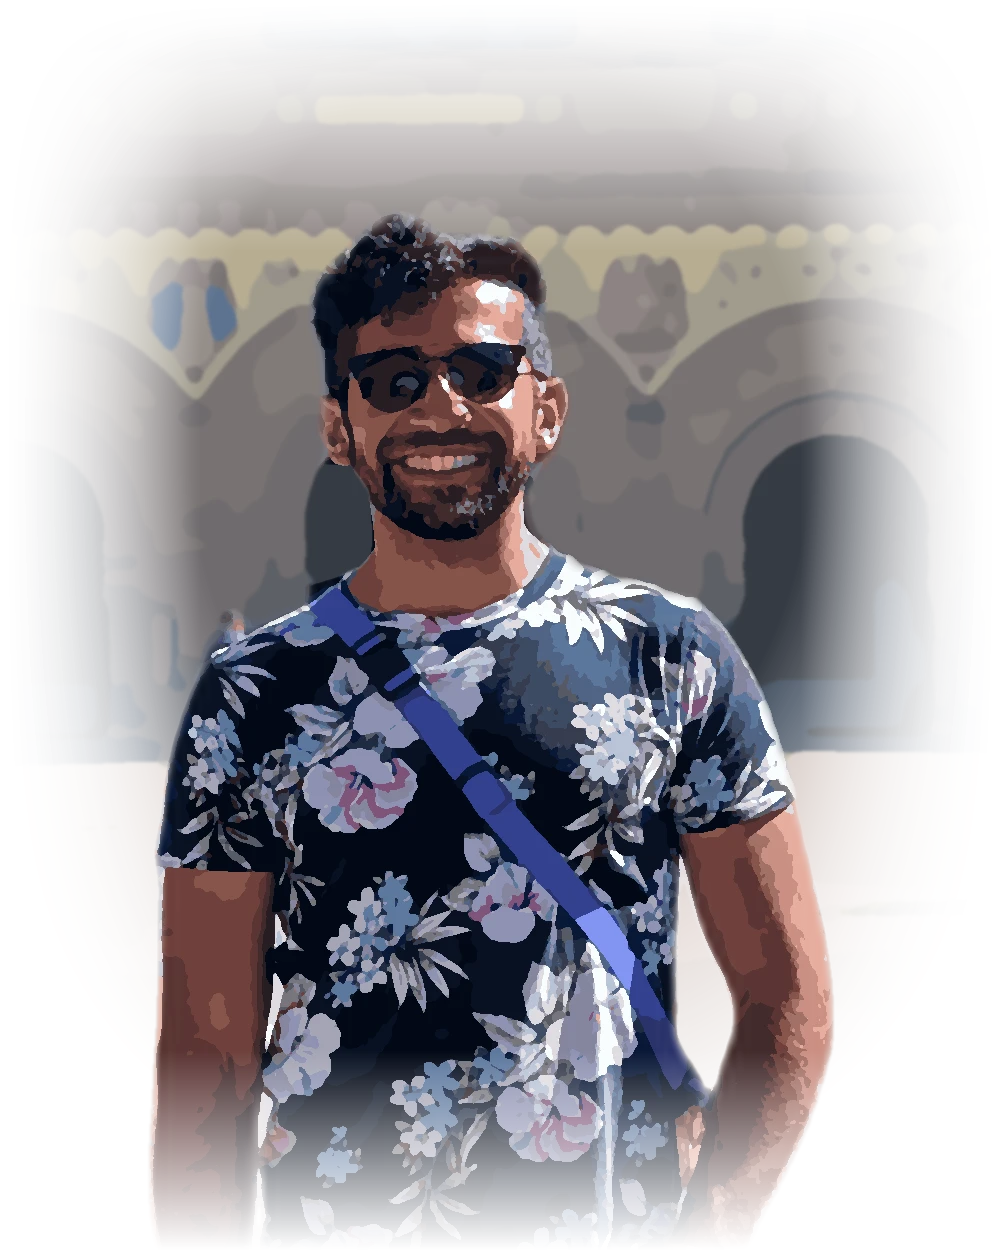
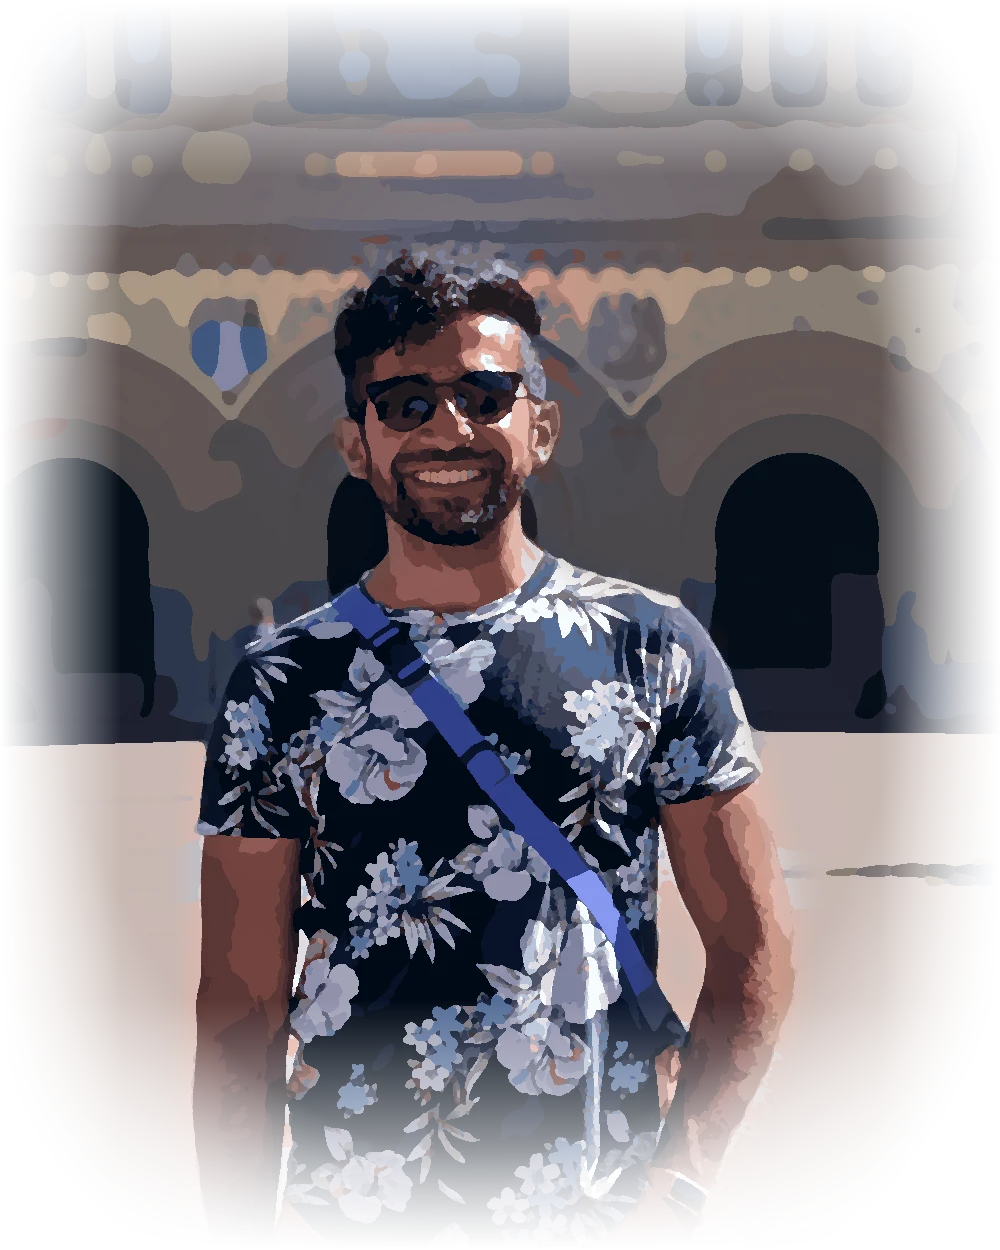
Repaint portrait as one image; rename bio tabs
- Portrait is painted as a single image (no cut-out, so no halo at the
  edges) in a flat poster style, and fades into the page on all sides
- About toggle is now Professional / Personal
- Link preview uses the new portrait; TODO points at the preview

Claude-Session: https://claude.ai/code/session_018yPF65XAwvg6qRA9pk1LGe

diff --git a/TODO.md b/TODO.md
@@ -5,16 +5,16 @@ Placeholders are in for everything below. Tick things off as you send them, and 
 ## Blockers (to go live)
 
 - [x] **Fix GitHub access** for Claude. Done, and the branch is pushed.
-- [ ] **Review the site** once it's pushed to the `claude/tender-noether-2zyist` branch.
+- [ ] **Review the site** in the private preview: https://claude.ai/artifact/CAF8jfvu6kKpboLHzJ5Rdw
 - [ ] **Save the backup zip** I sent in chat.
-- [ ] **Delete the repo, then recreate it empty** with the same name. This clears the 73 inherited contributors. If the Claude app is set to "only selected repositories", add the new repo to it.
-- [ ] After I push: **Settings → Pages → Source → "GitHub Actions"**.
+- [x] **Delete the repo, then recreate it empty.** Done, and the new site is on the working branch.
+- [ ] When you're happy: tell me to push to `master`, then set **Settings → Pages → Source → "GitHub Actions"**.
 
 ## Content
 
 - [ ] **Social links:** LinkedIn? X? Email? Anything else? (Only GitHub for now.)
-- [ ] **"Why I do it" bio:** a few sentences, or bullet points and I'll draft it in your voice. (`src/content/bio/2-why.md`)
-- [ ] **Check the "What I do" bio.** I added a second paragraph about ee-in-a-box. (`src/content/bio/1-what.md`)
+- [ ] **"Personal" bio tab:** a few sentences about life outside work, or bullet points and I'll draft it in your voice. (`src/content/bio/2-personal.md`)
+- [ ] **Check the "Professional" bio.** I added a second paragraph about ee-in-a-box. (`src/content/bio/1-professional.md`)
 - [ ] **CV (PDF):** I'll build the résumé page from it and add the download button. The current page is a skeleton with [brackets], and I guessed "Hardware Engineer".
 - [ ] **Books:** for each one: title, author, rating out of 5, month finished, and a one-line take. Optional: ISBN (for the exact cover) and a longer review (gets its own page).
 - [ ] **Human photos:** for each moment: 1–3 photos, a title, the month, and a couple of sentences.
@@ -22,7 +22,7 @@ Placeholders are in for everything below. Tick things off as you send them, and 
 
 ## Decisions (optional)
 
-- [ ] **Portrait:** keep the painted church behind you, or go plain (just you, like Marcel's)?
+- [ ] **Portrait style:** 1 Poster, 2 Oil, 3 Gouache or 4 Teal? (Switch between them in the preview. Poster is in place for now.)
 - [ ] A new name for **Human**? (It's one line in `src/config.ts`.)
 - [ ] OK with the link-preview tagline: *"Engineer in San Francisco. Hardware, with AI in the loop."*? (`public/og.jpg`)
 - [ ] Custom domain (e.g. `maisam.dev`), or stay on `maisamp.github.io`?

diff --git a/src/content/bio/2-personal.md b/src/content/bio/2-personal.md
@@ -1,0 +1,8 @@
+---
+label: Personal
+order: 2
+---
+
+<!-- TODO(Maisam): who you are outside work. Where you're from, what you do on weekends, what you're into lately. -->
+
+*Placeholder: a few sentences about life outside work (where you grew up, what fills your weekends, what you're obsessed with lately). The [Human](/human/) page has the photos.*

diff --git a/src/content/bio/1-professional.md b/src/content/bio/1-professional.md
@@ -1,5 +1,5 @@
 ---
-label: What I do
+label: Professional
 order: 1
 ---
 
